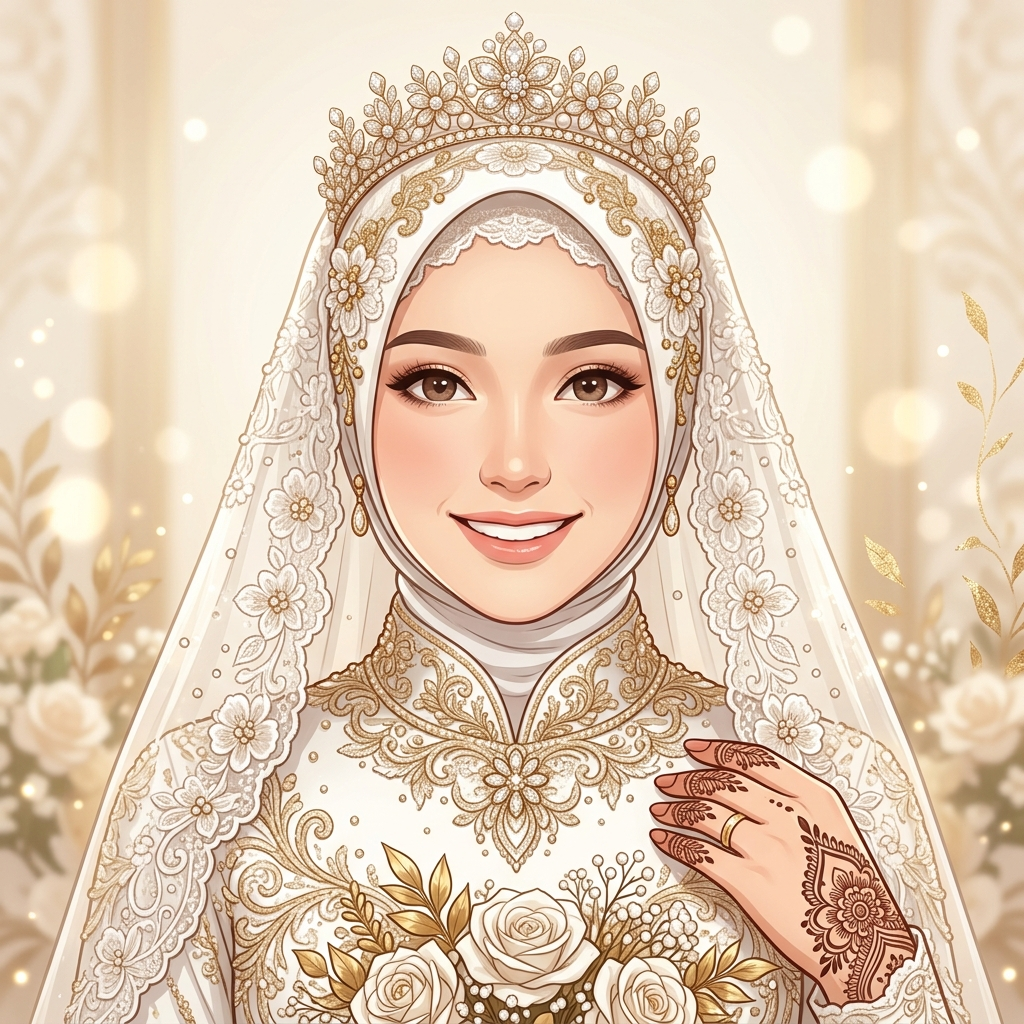
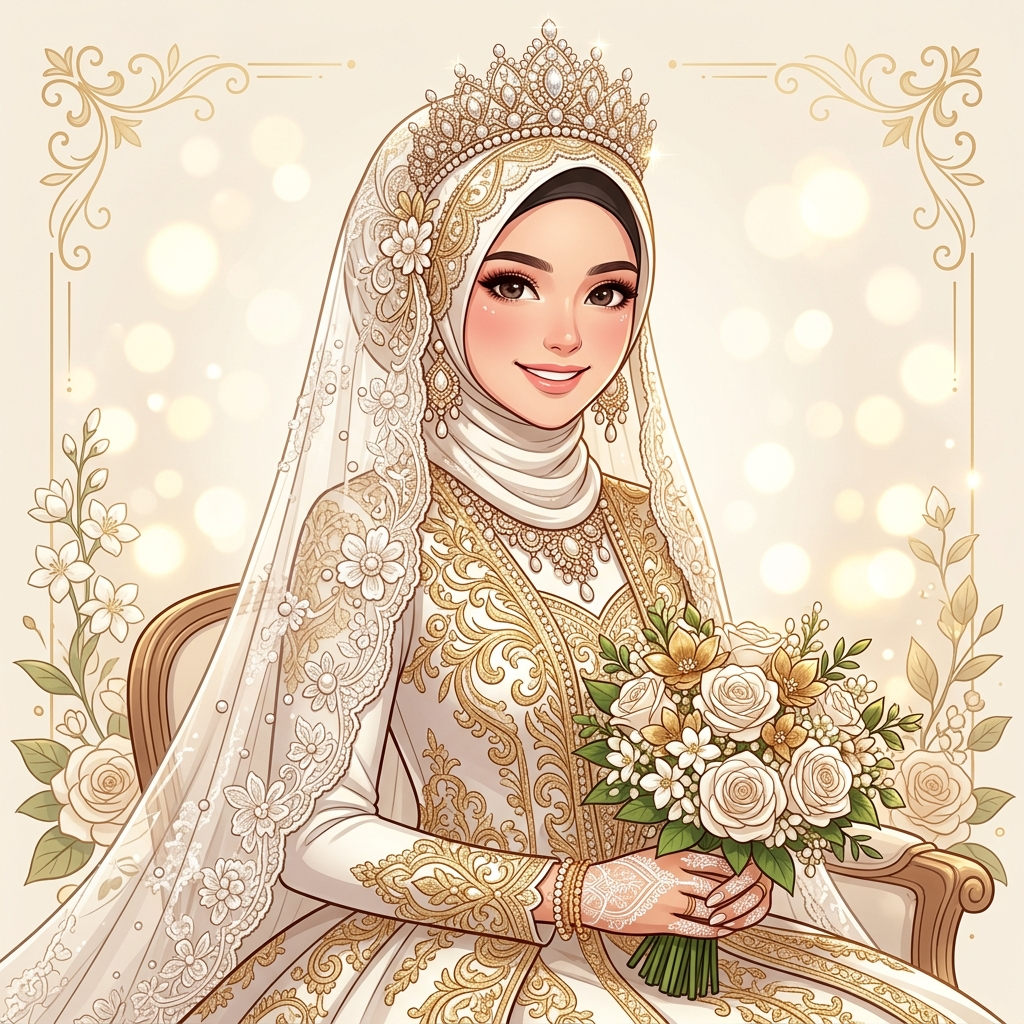
Enhance couple animation illustrations and smooth floating motion

diff --git a/src/components/HeroSection.tsx b/src/components/HeroSection.tsx
@@ -58,30 +58,36 @@ export const HeroSection: React.FC = () => {
 
         {/* Hero Photo Card with Golden Arch Frame */}
         <motion.div
-          initial={{ opacity: 0, scale: 0.95 }}
-          animate={{ opacity: 1, scale: 1 }}
+          initial={{ opacity: 0, scale: 0.95, y: 20 }}
+          animate={{ opacity: 1, scale: 1, y: 0 }}
           transition={{ duration: 1, delay: 0.5 }}
           className="relative w-full aspect-[4/5] max-w-xs sm:max-w-sm rounded-t-[140px] rounded-b-3xl p-3 bg-[#FFFFFF] shadow-2xl border border-[#C5A059]/40 my-4"
         >
-          {/* Inner Photo Wrapper */}
-          <div className="relative w-full h-full rounded-t-[130px] rounded-b-2xl overflow-hidden group">
-            <Image
-              src="/images/couple.png"
-              alt={`Foto Pasangan ${weddingData.couple.groom.name} & ${weddingData.couple.bride.name}`}
-              fill
-              priority
-              unoptimized
-              sizes="(max-width: 640px) 100vw, 400px"
-              className="object-cover object-center group-hover:scale-105 transition-transform duration-700 ease-out"
-            />
-            {/* Subtle Gradient Overlay */}
-            <div className="absolute inset-0 bg-gradient-to-t from-[#3D2B1F]/30 via-transparent to-transparent pointer-events-none" />
-          </div>
+          <motion.div
+            animate={{ y: [-6, 6, -6] }}
+            transition={{ duration: 5, repeat: Infinity, ease: "easeInOut" }}
+            className="w-full h-full relative"
+          >
+            {/* Inner Photo Wrapper */}
+            <div className="relative w-full h-full rounded-t-[130px] rounded-b-2xl overflow-hidden group">
+              <Image
+                src="/images/couple.png"
+                alt={`Foto Pasangan ${weddingData.couple.groom.name} & ${weddingData.couple.bride.name}`}
+                fill
+                priority
+                unoptimized
+                sizes="(max-width: 640px) 100vw, 400px"
+                className="object-cover object-center group-hover:scale-105 transition-transform duration-700 ease-out"
+              />
+              {/* Subtle Gradient Overlay */}
+              <div className="absolute inset-0 bg-gradient-to-t from-[#3D2B1F]/30 via-transparent to-transparent pointer-events-none" />
+            </div>
 
-          {/* Floating Heart Badge */}
-          <div className="absolute -bottom-4 right-6 bg-[#FAF6F0] border border-[#C5A059]/50 p-2.5 rounded-full shadow-md text-[#C5A059]">
-            <Heart className="w-5 h-5 fill-[#C5A059]" />
-          </div>
+            {/* Floating Heart Badge */}
+            <div className="absolute -bottom-4 right-6 bg-[#FAF6F0] border border-[#C5A059]/50 p-2.5 rounded-full shadow-md text-[#C5A059]">
+              <Heart className="w-5 h-5 fill-[#C5A059]" />
+            </div>
+          </motion.div>
         </motion.div>
       </div>
     </section>

diff --git a/src/components/CoupleSection.tsx b/src/components/CoupleSection.tsx
@@ -2,6 +2,7 @@
 
 import React from "react";
 import Image from "next/image";
+import { motion } from "framer-motion";
 import { weddingData } from "@/data/wedding";
 import { SectionAnimation } from "./SectionAnimation";
 
@@ -45,7 +46,11 @@ export const CoupleSection: React.FC = () => {
           
           {/* Groom Profile */}
           <SectionAnimation delay={0.2} className="flex flex-col items-center">
-            <div className="relative w-44 h-44 sm:w-52 sm:h-52 rounded-full p-2 bg-gradient-to-tr from-[#C5A059] via-[#E5C88B] to-[#7A5230] shadow-lg mb-6 group">
+            <motion.div
+              animate={{ y: [-4, 4, -4] }}
+              transition={{ duration: 4.5, repeat: Infinity, ease: "easeInOut" }}
+              className="relative w-44 h-44 sm:w-52 sm:h-52 rounded-full p-2 bg-gradient-to-tr from-[#C5A059] via-[#E5C88B] to-[#7A5230] shadow-lg mb-6 group"
+            >
               <div className="relative w-full h-full rounded-full overflow-hidden border-2 border-[#FFFFFF]">
                 <Image
                   src={groom.image}
@@ -56,7 +61,7 @@ export const CoupleSection: React.FC = () => {
                   className="object-cover group-hover:scale-110 transition-transform duration-500"
                 />
               </div>
-            </div>
+            </motion.div>
 
             <span className="font-script text-xl text-[#C5A059] mb-1">Marapulai</span>
             <h3 className="font-serif text-2xl md:text-3xl text-[#3D2B1F] font-bold">
@@ -79,7 +84,11 @@ export const CoupleSection: React.FC = () => {
 
           {/* Bride Profile */}
           <SectionAnimation delay={0.4} className="flex flex-col items-center">
-            <div className="relative w-44 h-44 sm:w-52 sm:h-52 rounded-full p-2 bg-gradient-to-tr from-[#C5A059] via-[#E5C88B] to-[#7A5230] shadow-lg mb-6 group">
+            <motion.div
+              animate={{ y: [4, -4, 4] }}
+              transition={{ duration: 4.5, repeat: Infinity, ease: "easeInOut" }}
+              className="relative w-44 h-44 sm:w-52 sm:h-52 rounded-full p-2 bg-gradient-to-tr from-[#C5A059] via-[#E5C88B] to-[#7A5230] shadow-lg mb-6 group"
+            >
               <div className="relative w-full h-full rounded-full overflow-hidden border-2 border-[#FFFFFF]">
                 <Image
                   src={bride.image}
@@ -90,7 +99,7 @@ export const CoupleSection: React.FC = () => {
                   className="object-cover group-hover:scale-110 transition-transform duration-500"
                 />
               </div>
-            </div>
+            </motion.div>
 
             <span className="font-script text-xl text-[#C5A059] mb-1">Anak Daro</span>
             <h3 className="font-serif text-2xl md:text-3xl text-[#3D2B1F] font-bold">

diff --git a/src/data/wedding.ts b/src/data/wedding.ts
@@ -8,7 +8,7 @@ export const weddingData: WeddingData = {
       parents: "Putra dari Bapak Nama Ayah dan Ibu Nama Ibu",
       instagram: "@i.am_aii",
       instagramUrl: "https://instagram.com/i.am_aii",
-      image: "/images/groom.jpg",
+      image: "/images/groom.png",
     },
     bride: {
       name: "Alda",
